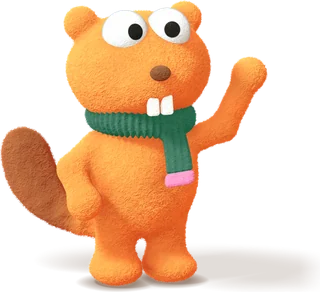
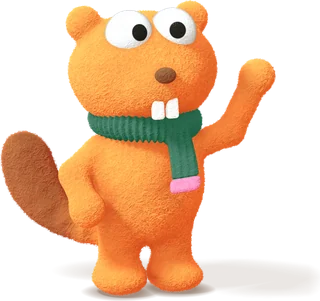
其余形象也用上：第一次来背书包戴小黄帽、开始答题抱秒表、加练完成戴学士帽，长颈鹿老师讲课（注册看解析）、颁奖（会员开通）、招手（联系我们）；去掉全身图脚下过淡的大片影子

diff --git a/math/app.js b/math/app.js
@@ -1,4 +1,4 @@
-import { WEEK, mascot, teacher, friend, FRIENDS, castRow, subjHead, scorePal, startPal, INAPP, STANDALONE, openInBrowserGuide, openContact, STAR, MILES, MEDAL, nextMile, weekRow, todayCard, bindToday, pointsSheet, examUrl, SUBJ_NAME } from '/assets/pal.js?v=20261128m';
+import { WEEK, mascot, teacher, friend, FRIENDS, castRow, subjHead, scorePal, startPal, INAPP, STANDALONE, openInBrowserGuide, openContact, STAR, MILES, MEDAL, nextMile, weekRow, todayCard, bindToday, pointsSheet, examUrl, SUBJ_NAME } from '/assets/pal.js?v=20261128n';
 // AMC 8 模拟考 · 前端（无构建步骤，原生 JS）
 // 路由：#/account（账号与会员）  #/（考试）  #/contest/:id[/stats|/records]  #/graph[/:kp]  #/mistakes  #/kp/:id  #/exam/:sid  #/review/:sid  #/problem/:id
 import { mountPlayer } from './player.js?v=20261127c';
@@ -284,7 +284,7 @@ function rwSample(title) {
   return `<div class="rw-list">${[['第 12 题', '比和比例', '待订正'], ['第 18 题', '行程问题', '该复习了'], ['第 7 题', '面积计算', '待订正'], ['第 21 题', '计数', '已订正']].map(([a, b, c]) => `<div class="rw-row"><span class="rw-m w">✗</span>${a}<small>${b}</small><em>${c}</em></div>`).join('')}</div>`;
 }
 const regPreview = (title, href = '#/account') => `<div class="card reg-wall"><div class="rw-blur" aria-hidden="true">${rwSample(title)}</div>
-  <div class="rw-over">${mascot('happy', { head: true })}<p>${esc(RW_LINE[title] || '')}</p><a class="btn primary" href="${href}" data-regp>免费注册</a></div></div>`;
+  <div class="rw-over">${teacher('lecture')}<p>${esc(RW_LINE[title] || '')}</p><a class="btn primary" href="${href}" data-regp>免费注册</a></div></div>`;
 function regWall(title) {
   $app.innerHTML = `${topnav()}<main class="page"><header class="ph"><div><h1>${esc(title)}</h1></div></header>${regPreview(title)}</main>`;
 }
@@ -505,7 +505,7 @@ async function renderPaid(orderId) {
     await new Promise((r) => setTimeout(r, 2000));
   }
   if (!location.hash.includes(orderId)) return; // 已经离开这个页面
-  if (o.status === 'paid') return box(`<div class="pay-pal">${mascot('cheer')}</div><h2>${esc(o.plan_name)}已开通</h2><p>${o.member_until === 'forever' ? '永久有效' : `有效期到 <b>${fmtDay(o.member_until)}</b>`}</p><div class="actions"><a class="btn" href="#/account">账号</a><a class="btn primary" href="#/">开始练习</a></div>`);
+  if (o.status === 'paid') return box(`<div class="pay-pal">${teacher('award')}</div><h2>${esc(o.plan_name)}已开通</h2><p>${o.member_until === 'forever' ? '永久有效' : `有效期到 <b>${fmtDay(o.member_until)}</b>`}</p><div class="actions"><a class="btn" href="#/account">账号</a><a class="btn primary" href="#/">开始练习</a></div>`);
   if (o.status === 'refunded' || o.status === 'refunding') return box(`<h2>这笔订单已退款</h2><div class="actions"><a class="btn primary" href="#/account">返回账号</a></div>`);
   if (o.status === 'closed') return box(`<h2>没有完成付款</h2><p>这笔订单（${esc(o.plan_name)} ¥${esc(o.amount)}）已关闭，没有扣款。</p><div class="actions"><a class="btn" href="#/">先不开了</a><a class="btn primary" href="#/account">重新开通</a></div>`);
   box(`<h2>还没收到付款</h2><p>${esc(o.plan_name)} · ¥${esc(o.amount)}</p><p class="small muted">如果已经付款，可能是支付宝还没通知到，点「我已付款，再查一次」；还没付可以继续支付或取消。</p>
@@ -864,7 +864,7 @@ async function renderStart(subject, newGuest) {
   const ask = (q, sub = '') => `<div class="ob-ask">${mascot('happy')}<div class="ob-bubble"><b>${q}</b>${sub ? `<small>${sub}</small>` : ''}</div></div>`;
   const VIEW = {
     hello: () => `<div class="ob-hello">${mascot('cheer')}<div class="ob-brand">learn-inside</div><p>每天几道真题，养成备考好习惯</p></div>`,
-    intro: () => `<div class="ob-intro"><div class="ob-bubble big"><b>你好！我是狸狸</b><small>回答几个小问题，马上开始第一天</small></div>${mascot('happy')}</div>`,
+    intro: () => `<div class="ob-intro"><div class="ob-bubble big"><b>你好！我是狸狸</b><small>回答几个小问题，马上开始第一天</small></div>${mascot('school')}</div>`,
     grade: () => `${ask('孩子几年级？')}<div class="ob-grid">${GRADE9.map(([g, t]) => opt(A.grade === g, 'grade', g, t)).join('')}</div>`,
     subjects: () => `${ask(adding ? '加哪些科目？' : '准备哪些科目？', '可以多选')}<div class="ob-subjs">${SUBJ_CARDS.map(([id, ic, name]) => {
       const fs = inSubj(id);
@@ -1596,7 +1596,7 @@ async function startExtra(family) {
 }
 function extraDone(r, sid, family, pts) {
   const sub = family === 'hanzi' || family === 'gushiwen' ? 'chinese' : 'math';
-  $app.innerHTML = `<main class="ob"><div class="ob-body"><div class="ob-hello">${mascot('cheer')}<div class="ob-brand">加练完成</div>
+  $app.innerHTML = `<main class="ob"><div class="ob-body"><div class="ob-hello">${mascot('grad')}<div class="ob-brand">加练完成</div>
       <p>答对 ${r.session.score}/${r.total}${pts ? ` · +${pts} 积分` : ''}</p></div></div>
     <footer class="ob-foot ob-welcome-foot"><button class="btn primary block" id="x-more">再练一组</button>
       <a class="btn block" href="${examUrl(sub, sid, true, family)}">看解析</a><a class="btn block" href="/">回首页</a></footer></main>`;

diff --git a/assets/pal.js b/assets/pal.js
@@ -2,7 +2,7 @@
 export const WEEK = '一二三四五六日';
 // 学生狸狸（河狸）和长颈鹿老师在 cast.js；这里转出去，各页面照旧从 pal.js 引
 // 形象怎么放看布局：打卡卡片紧挨着的地方不再放第二个大形象；列表里的小头像、成绩页的小伙伴可以有
-import { mascot, friend, FRIENDS, castRow, teacher } from './cast.js?v=20261128m';
+import { mascot, friend, FRIENDS, castRow, teacher } from './cast.js?v=20261128n';
 import { XHS, FIND, LOGO } from './brand.js?v=20261122e';
 import qrcode from './print/qrcode.js?v=20261111';
 export { XHS, FIND };
@@ -10,8 +10,8 @@ export { mascot, friend, FRIENDS, castRow, teacher };
 // 科目小头像：各科打扮的狸狸
 export const subjHead = (subject) => friend(FRIENDS[subject], 'happy', { head: true });
 // 成绩旁边的学科小伙伴：80% 以上欢呼，50% 以上开心，再低就想一想
-// 开始答题前：学科小伙伴站在「开始」按钮旁边
-export const startPal = (subject) => `<span class="start-pal">${friend(FRIENDS[subject] || FRIENDS.math, 'happy')}</span>`;
+// 开始答题前：抱着秒表的狸狸站在「开始」按钮旁边
+export const startPal = () => `<span class="start-pal">${mascot('exam')}</span>`;
 export const scorePal = (subject, got, full) => { const r = full ? got / full : 0; return `<span class="score-pal">${friend(FRIENDS[subject] || FRIENDS.math, r >= 0.8 ? 'cheer' : r >= 0.5 ? 'happy' : 'think')}</span>`; };
 // 连续打卡里程碑：到了给一枚徽章（完成页），首页提示还差几天
 export const MILES = [3, 7, 14, 30, 60, 100, 180, 365];
@@ -37,7 +37,7 @@ export const TEAM_URL = '/math/#/team';
 export function todayCard(pr, { team = null, only = null } = {}) {
   const all = pr?.items || [];
   if (!all.length) {
-    return `<section class="today-card empty"><div class="tc-hello">${mascot('happy')}<b>每天几道真题</b></div>
+    return `<section class="today-card empty"><div class="tc-hello">${mascot('school')}<b>每天几道真题</b></div>
       <a class="tc-start" href="${START_URL}">开始</a></section>`;
   }
   const its = only ? all.filter((x) => x.subject === only) : all;
@@ -146,7 +146,7 @@ export async function openContact({ title = '联系我们', only = '' } = {}) {
   const sup = `<section class="ct-sup"><div class="ct-qr">${s.qr ? `<img src="${escH(s.qr)}" alt="客服微信二维码">` : mascot('happy', { head: true })}</div>
     <div class="ct-st">${pn('客服微信', LOGO.wechat)}<small>${s.text ? escH(s.text) : '有问题直接问，微信扫码'}</small>${link && IN_WX ? `<a class="ct-act" href="${escH(link)}">打开微信客服</a>` : ''}</div></section>`;
   const dlg = document.createElement('dialog'); dlg.className = `ct-dlg${only === 'support' ? ' only' : ''}`;
-  dlg.innerHTML = `<div class="ct-hero"><span class="ct-grab"></span><div class="ct-fox">${mascot('cheer')}</div><h2>${escH(title)}</h2><button class="ct-x" aria-label="关闭">×</button></div>
+  dlg.innerHTML = `<div class="ct-hero"><span class="ct-grab"></span><div class="ct-fox">${teacher('hello')}</div><h2>${escH(title)}</h2><button class="ct-x" aria-label="关闭">×</button></div>
     ${only === 'support' ? sup : sup + follow}`;
   dlg.querySelector('.ct-x').onclick = () => dlg.close();
   dlg.addEventListener('click', async (e) => {

diff --git a/assets/cast.js b/assets/cast.js
@@ -2,10 +2,11 @@
 // 学生「狸狸」：小河狸，按板块换装（数学三角尺、语文红马甲毛笔、英语耳机……）。表情：happy 开心 / think 想一想 / cheer 欢呼 / sleep 今天还没打卡
 // 老师：长颈鹿（讲解、批改、表扬）
 // 输出仍是 <svg class="mascot|friend">，里面放一张图：各页面原来给 svg 定的宽高照样生效，图按比例居中不变形
-const V = '20261128m';
+const V = '20261128n';
 const SIZE = {
-  'b-hello': [320, 292], 'b-math': [320, 292], 'b-chinese': [320, 292], 'b-english': [320, 297], 'b-wrong': [320, 294], 'b-medal': [320, 297],
-  't-hello': [213, 320], 't-praise': [213, 320], 't-mark': [205, 320], 't-lecture': [206, 320], 't-award': [214, 320],
+  'b-hello': [320, 301], 'b-math': [320, 301], 'b-chinese': [320, 300], 'b-english': [320, 304], 'b-wrong': [320, 302], 'b-medal': [320, 307],
+  'b-exam': [320, 305], 'b-school': [320, 311], 'b-grad': [318, 320],
+  't-hello': [204, 320], 't-praise': [203, 320], 't-mark': [195, 320], 't-lecture': [202, 320], 't-award': [206, 320],
   'h-main': [160, 160], 'h-math': [160, 160], 'h-chinese': [160, 160], 'h-english': [160, 160], 'h-teacher': [160, 160],
 };
 const pic = (name, cls) => {
@@ -14,7 +15,8 @@ const pic = (name, cls) => {
 };
 
 // 学生狸狸（不分科目的地方用这个）
-const MOOD = { happy: 'b-hello', think: 'b-wrong', cheer: 'b-medal', sleep: 'b-hello' };
+// 另有几身专门场合的打扮：school 背书包戴小黄帽（第一次来）、exam 抱秒表（开始答题）、grad 学士帽（加练完成）
+const MOOD = { happy: 'b-hello', think: 'b-wrong', cheer: 'b-medal', sleep: 'b-hello', school: 'b-school', exam: 'b-exam', grad: 'b-grad' };
 export function mascot(mood = 'happy', { head = false } = {}) {
   return pic(head ? 'h-main' : MOOD[mood] || MOOD.happy, `mascot mascot-${mood}`);
 }

diff --git a/index.html b/index.html
@@ -204,9 +204,9 @@ mark{background:var(--warn-soft);color:var(--warn);border-radius:4px;padding:0 2
 @media (prefers-reduced-motion:reduce){.home-stale .today-card::after,.home-stale.resume::after{animation:none}}
 .resume a b{font-size:.95rem}.resume a span{color:var(--soft);font-size:.9rem;overflow:hidden;text-overflow:ellipsis;white-space:nowrap}.resume a i{font-style:normal;color:var(--soft)}
 </style>
-<link rel="stylesheet" href="/assets/pal.css?v=20261128m">
-<link rel="modulepreload" href="/assets/pal.js?v=20261128m">
-<link rel="modulepreload" href="/assets/cast.js?v=20261128m">
+<link rel="stylesheet" href="/assets/pal.css?v=20261128n">
+<link rel="modulepreload" href="/assets/pal.js?v=20261128n">
+<link rel="modulepreload" href="/assets/cast.js?v=20261128n">
 <link rel="stylesheet" href="/assets/loadcomic.css?v=20261109">
 </head>
 <body class="net-wait">
@@ -293,7 +293,7 @@ document.body.classList.remove("net-wait");
 </script>
 <script type="module">
 /* 今日打卡（首页最上面）+ 没做完的试卷、待订正错题；第一次来的人先走新手引导 */
-import { todayCard, bindToday, START_URL, subjHead, XHS, FIND } from "/assets/pal.js?v=20261128m";
+import { todayCard, bindToday, START_URL, subjHead, XHS, FIND } from "/assets/pal.js?v=20261128n";
 { const n = document.getElementById("xhs-name"), d = document.getElementById("xhs-id"); if (n) n.innerHTML = XHS.name.split(" | ").map((x) => `<span style="white-space:nowrap">${x.replace(/[&<>"]/g, "")}</span>`).join(" | "); if (d) d.textContent = "小红书搜索 " + FIND; }
 // 真题专区：各科打扮的狸狸
 for (const [sel, s] of [[".zone:not(.zh):not(.en) i", "math"], [".zone.zh i", "chinese"], [".zone.en i", "english"]]) { const i = document.querySelector(sel); if (i) { i.innerHTML = subjHead(s); i.classList.add("pal"); } }

diff --git a/account/index.html b/account/index.html
@@ -19,14 +19,14 @@
   <meta property="og:image" content="https://learn-inside.com/og-image.png">
   <title>账号与会员 · learn-inside</title>
   <link rel="stylesheet" href="/math/vendor/katex/katex.min.css">
-  <link rel="stylesheet" href="/assets/pal.css?v=20261128m">
-  <link rel="stylesheet" href="/math/style.css?v=20261127c">
+  <link rel="stylesheet" href="/assets/pal.css?v=20261128n">
+  <link rel="stylesheet" href="/math/style.css?v=20261128n">
   <link rel="stylesheet" href="/assets/loadcomic.css?v=20261109">
   <link rel="stylesheet" href="/assets/sidenav.css?v=20261122k">
   <script defer src="/math/vendor/katex/katex.min.js"></script>
   <script defer src="/math/vendor/katex/contrib/auto-render.min.js"></script>
   <script>window.LI_SECTION = 'account';</script>
-  <script type="module" src="/math/app.js?v=20261128m"></script>
+  <script type="module" src="/math/app.js?v=20261128n"></script>
 </head>
 <body class="net-wait">
   <div id="app"><main class="page"><div class="sk sk-first" role="status" aria-label="加载中"><div class="sk-b sk-h1"></div><div class="sk-row"><div class="sk-b sk-card"></div><div class="sk-b sk-card"></div><div class="sk-b sk-card"></div></div><div class="sk-grid"><div class="sk-b sk-big"></div><div class="sk-b sk-side"></div></div></div></main></div>

diff --git a/math/index.html b/math/index.html
@@ -20,14 +20,14 @@
   <meta property="og:image" content="https://learn-inside.com/og-image.png">
   <title>奥数真题边练边学 · learn-inside</title>
   <link rel="stylesheet" href="vendor/katex/katex.min.css">
-  <link rel="stylesheet" href="/assets/pal.css?v=20261128m">
+  <link rel="stylesheet" href="/assets/pal.css?v=20261128n">
   <link rel="stylesheet" href="/assets/fonts/wenkai/wenkai.css">
-  <link rel="stylesheet" href="style.css?v=20261127c">
+  <link rel="stylesheet" href="style.css?v=20261128n">
   <link rel="stylesheet" href="/assets/loadcomic.css?v=20261109">
   <link rel="stylesheet" href="/assets/sidenav.css?v=20261122k">
   <script defer src="vendor/katex/katex.min.js"></script>
   <script defer src="vendor/katex/contrib/auto-render.min.js"></script>
-  <script type="module" src="app.js?v=20261128m"></script>
+  <script type="module" src="app.js?v=20261128n"></script>
 </head>
 <body class="net-wait">
   <div id="app"><main class="page"><div class="sk sk-first" role="status" aria-label="加载中"><div class="sk-b sk-h1"></div><div class="sk-row"><div class="sk-b sk-card"></div><div class="sk-b sk-card"></div><div class="sk-b sk-card"></div></div><div class="sk-grid"><div class="sk-b sk-big"></div><div class="sk-b sk-side"></div></div></div></main></div>

diff --git a/chinese/index.html b/chinese/index.html
@@ -19,11 +19,11 @@
   <meta property="og:description" content="汉字小达人真题模考：150 题 40 分钟，一页一题，还原真实答题界面；交卷出分、逐题解析、错题本。">
   <meta property="og:image" content="https://learn-inside.com/og-image.png">
   <title>汉字小达人真题模考 · learn-inside</title>
-  <link rel="stylesheet" href="/assets/pal.css?v=20261128m">
+  <link rel="stylesheet" href="/assets/pal.css?v=20261128n">
   <link rel="stylesheet" href="style.css?v=20261125g">
   <link rel="stylesheet" href="/assets/loadcomic.css?v=20261109">
   <link rel="stylesheet" href="/assets/sidenav.css?v=20261122k">
-  <script type="module" src="app.js?v=20261128m"></script>
+  <script type="module" src="app.js?v=20261128n"></script>
 </head>
 <body class="net-wait">
   <div id="app"><main class="page"><div class="sk sk-first" role="status" aria-label="加载中"><div class="sk-b sk-h1"></div><div class="sk-row"><div class="sk-b sk-card"></div><div class="sk-b sk-card"></div><div class="sk-b sk-card"></div></div><div class="sk-grid"><div class="sk-b sk-big"></div><div class="sk-b sk-side"></div></div></div></main></div>

diff --git a/english/app.js b/english/app.js
@@ -11,10 +11,10 @@ import { loadStart } from '/assets/loadcomic.js?v=20261109';
 import { PHRASES, QUOTES } from './phrases.js?v=20261110';
 import { PRINT_ICON, pickRandom } from '/assets/print/kit.js?v=20261126d';
 import { openEnglishPrint, openPhrasesPrint, packOpts } from './print-tpl.js?v=20261126d';
-import { initTJ, renderTJ, renderTJExam, renderTJReview } from './tj.js?v=20261128m';
-import { initKET, renderKET, renderKETExam, renderKETReview } from './ket.js?v=20261128m';
-import { initMistakes, renderMistakes, englishMistakes } from './mistakes.js?v=20261128m';
-import { todayCard, bindToday, START_URL, STAR, mascot, startPal } from '/assets/pal.js?v=20261128m';
+import { initTJ, renderTJ, renderTJExam, renderTJReview } from './tj.js?v=20261128n';
+import { initKET, renderKET, renderKETExam, renderKETReview } from './ket.js?v=20261128n';
+import { initMistakes, renderMistakes, englishMistakes } from './mistakes.js?v=20261128n';
+import { todayCard, bindToday, START_URL, STAR, mascot, startPal } from '/assets/pal.js?v=20261128n';
 const $app = document.getElementById('app');
 const $modal = document.getElementById('modal-root');
 

diff --git a/english/index.html b/english/index.html
@@ -19,11 +19,11 @@
   <meta property="og:description" content="KET、PET、小托福原创仿真模拟（含听力音频、写作自评、打印），ESDP 英语演讲备赛。">
   <meta property="og:image" content="https://learn-inside.com/og-image.png">
   <title>英语备考：KET · PET · 小托福 · learn-inside</title>
-  <link rel="stylesheet" href="/assets/pal.css?v=20261128m">
+  <link rel="stylesheet" href="/assets/pal.css?v=20261128n">
   <link rel="stylesheet" href="style.css?v=20261124b">
   <link rel="stylesheet" href="/assets/loadcomic.css?v=20261109">
   <link rel="stylesheet" href="/assets/sidenav.css?v=20261122k">
-  <script type="module" src="app.js?v=20261128m"></script>
+  <script type="module" src="app.js?v=20261128n"></script>
 </head>
 <body class="net-wait">
   <div id="app"><main class="page"><div class="sk sk-first" role="status" aria-label="加载中"><div class="sk-b sk-h1"></div><div class="sk-row"><div class="sk-b sk-card"></div><div class="sk-b sk-card"></div><div class="sk-b sk-card"></div></div><div class="sk-grid"><div class="sk-b sk-big"></div><div class="sk-b sk-side"></div></div></div></main></div>

diff --git a/english/mistakes.js b/english/mistakes.js
@@ -1,11 +1,11 @@
 // 英语错题本（#/mistakes）：KET、PET、小托福仿真卷里做错的题，按「一篇文章 / 一段录音」成组显示。
 // 英语题很多要看上下文（阅读原文、录音、完形的前后句、配图），所以每组都带着原材料，用的是复盘页同一套显示；
 // 订正也按组重做（整篇 / 整段），交卷后状态跟着变：待订正 → 已订正 →（7 天后）该复习了 → 再对一次就算已掌握。
-import { tjGroupRev, tjBlocks, TJ_CSS } from './tj.js?v=20261128m';
-import { ketGroupRev, examBlocks as ketBlocks, KET_CSS, inlineSvgs } from './ket.js?v=20261128m';
+import { tjGroupRev, tjBlocks, TJ_CSS } from './tj.js?v=20261128n';
+import { ketGroupRev, examBlocks as ketBlocks, KET_CSS, inlineSvgs } from './ket.js?v=20261128n';
 import { openPrint, PRINT_ICON } from '/assets/print/kit.js?v=20261126d';
 import { bindPlayers } from './player.js?v=20261114a';
-import { mascot } from '/assets/pal.js?v=20261128m';
+import { mascot } from '/assets/pal.js?v=20261128n';
 let X;
 export const initMistakes = (ctx) => { X = ctx; };
 

diff --git a/math/style.css b/math/style.css
@@ -1434,6 +1434,7 @@ body.exam-li .ez.big .ez-stem { font-size: 22px; }
 .rw-over p { margin: 0; max-width: 24em; text-wrap: balance; padding: 10px 16px; border-radius: 12px; background: color-mix(in srgb, var(--surface) 92%, transparent); box-shadow: 0 2px 12px rgb(0 0 0 / .06); font-size: 15px; font-weight: 600; color: var(--text); line-height: 1.6; }
 .rw-over .btn.primary { justify-self: auto; padding-left: 28px; padding-right: 28px; }
 .rw-over .mascot { width: 64px; height: 59px; margin-bottom: -10px; }
+.rw-over .mascot.teacher { width: 78px; height: 112px; margin-bottom: -4px; }
 .auth-h { display: flex; align-items: center; gap: 8px; }
 .auth-h .mascot { width: 40px; height: 37px; flex: none; }
 .team-form .cast-row, .team-join .cast-row { margin: -4px 0 6px; }

diff --git a/english/print.html b/english/print.html
@@ -13,9 +13,9 @@
 <script type="module">
 // 打印链接页（不用登录）：#t=打印凭证&o=选项 → 统一打印预览；#mk=凭证 → 错题本；#phrases → 句型和名言
 import { openEnglishPrint, openPhrasesPrint, unpackOpts } from './print-tpl.js?v=20261126d';
-import { initTJ } from './tj.js?v=20261128m';
-import { initKET } from './ket.js?v=20261128m';
-import { openEnMistakesPrint } from './mistakes.js?v=20261128m';
+import { initTJ } from './tj.js?v=20261128n';
+import { initKET } from './ket.js?v=20261128n';
+import { openEnMistakesPrint } from './mistakes.js?v=20261128n';
 const H = new URLSearchParams(location.hash.slice(1));
 const msg = (t) => { document.getElementById('msg').innerHTML = t; };
 (async () => {
